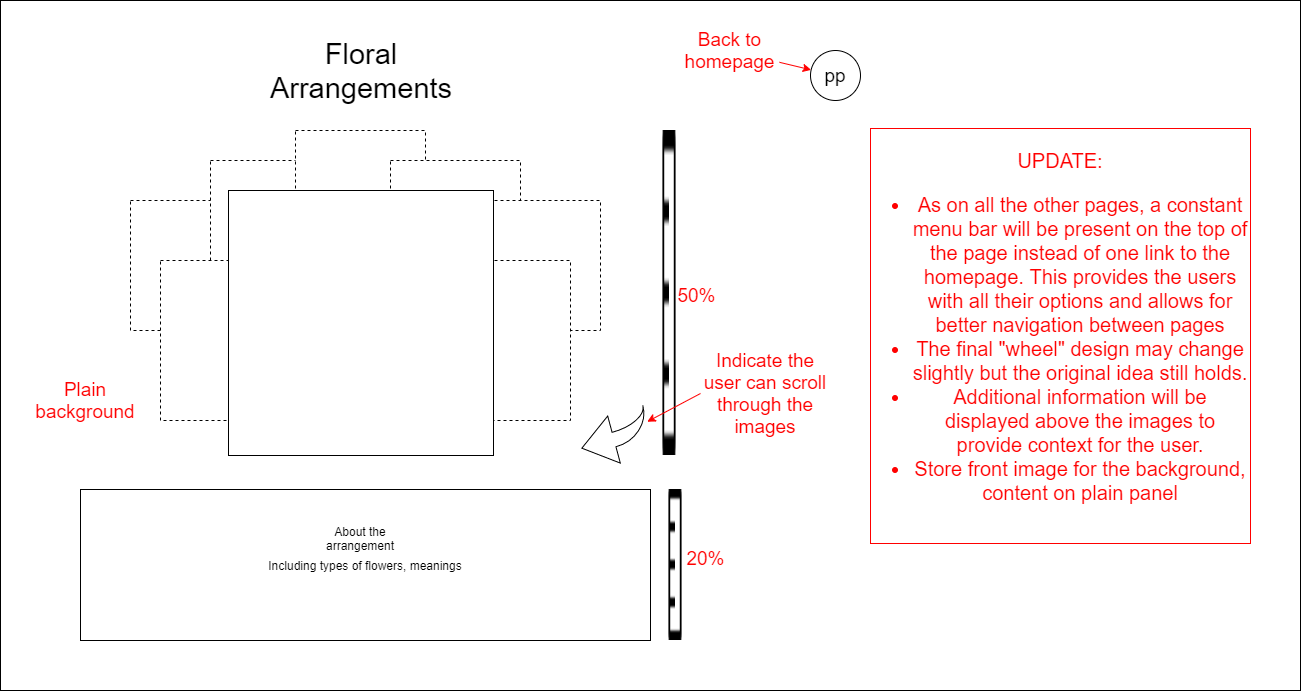
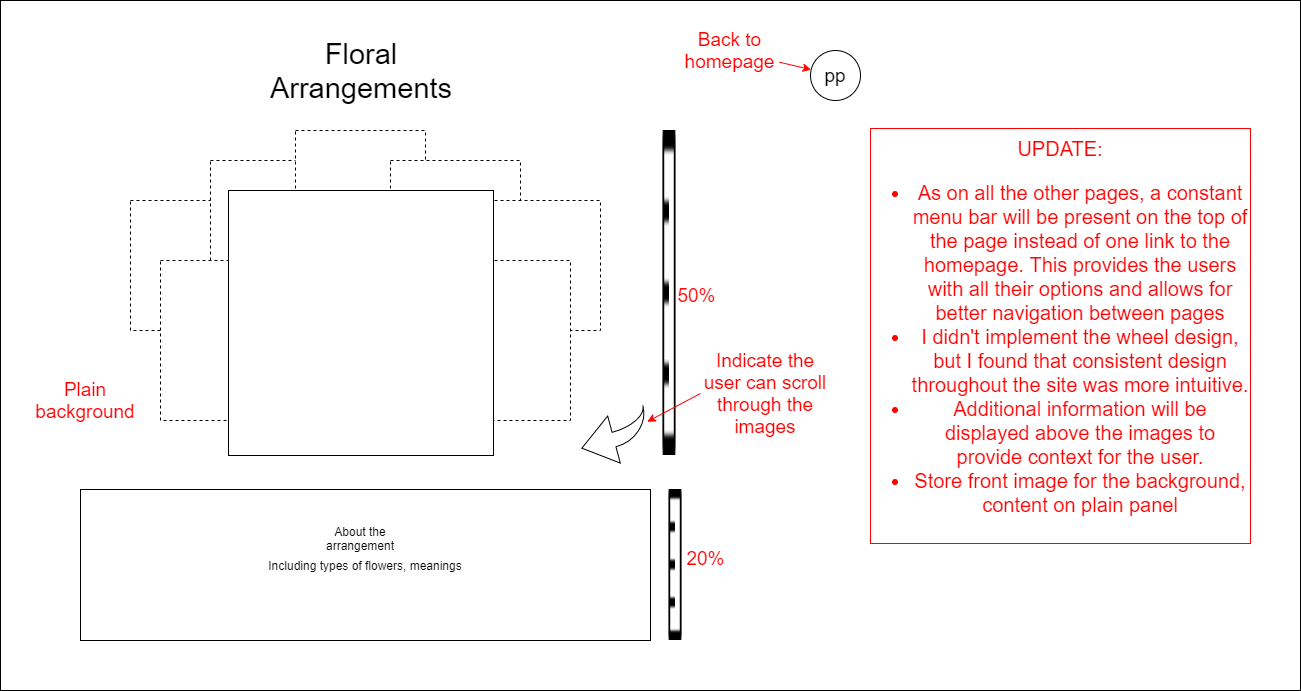
update wireframes

Changed region(s): [[0.6764, 0.2735, 0.9839, 0.7598], [0.7686, 0.1823, 0.8609, 0.2431]]

diff --git a/JS/twitterSearch.js b/JS/twitterSearch.js
@@ -1,4 +1,4 @@
-/*const proxyurl = "https://cors-anywhere.herokuapp.com/";
+/*//const proxyurl = "https://cors-anywhere.herokuapp.com/";
 const url = "https://api.twitter.com/1.1/search/tweets.json?q=%23PurpleFlowerProtest89&result_type=popular";
 var myHeaders = new Headers();
 
